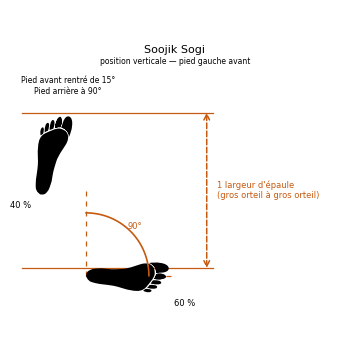
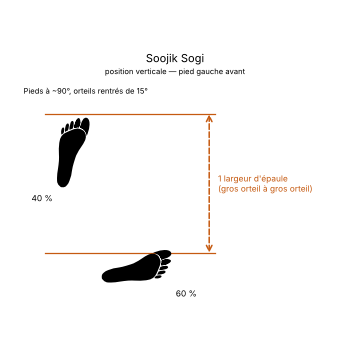
Soojik Sogi : orientation des pieds alignée sur l'Encyclopédie
Pieds presque à angle droit, orteils des deux pieds rentrés d'environ 15°
(comme la position en L), au lieu de « pied arrière ouvert à 90° » : manuel
16.18, fiche sogi/Soojik-Sogi.md et schéma images/sogi/soojik-sogi.png.

Claude-Session: https://claude.ai/code/session_01A1NHe34hiqjfap547sart3

diff --git a/scripts/generer-sogi.py b/scripts/generer-sogi.py
@@ -555,16 +555,17 @@ def _dwitbal(s):
 
 @position("soojik-sogi", "Soojik Sogi", "position verticale — pied gauche avant")
 def _soojik(s):
-    d = s.pied("D", at=(PIED_l / 2 + 1, 0), angle=-90, repere="talon")
+    # comme en position en L : pieds presque à angle droit, orteils des deux
+    # pieds rentrés d'environ 15° (Encyclopédie condensée, position verticale)
+    d = s.pied("D", at=(PIED_l / 2 + 1, 0), angle=-75, repere="talon")
     g = s.pied("G", at=(-PIED_l / 2 - 1, 0), angle=-15, repere="centre")
     _avancer(g, "gros-orteil", d.rp("gros-orteil")[1] + EPAULE)
     y0, y1 = d.rp("gros-orteil")[1], g.rp("gros-orteil")[1]
     s.cote_v(42, y0, y1, L_EPAULE + "\n(gros orteil à gros orteil)",
              ext=(-14, 44))
-    s.angle(d.rp("talon"), 0, 90, 19, "90°", rayons=27)
     s.poids(g, "40 %")
     s.poids(d, "60 %")
-    s.texte((0, y1 + 8), "Pied avant rentré de 15°\nPied arrière à 90°")
+    s.texte((0, y1 + 8), "Pieds à ~90°, orteils rentrés de 15°")
 
 
 @position("sasun-sogi", "Sasun Sogi", "position en diagonale — pied gauche avant")

diff --git a/sogi/Soojik-Sogi.md b/sogi/Soojik-Sogi.md
@@ -15,7 +15,7 @@ C'est une position courte, jambes tendues, le poids légèrement porté sur la j
 | Caractéristique | Norme technique ITF |
 | --- | --- |
 | **Longueur** | **Une largeur d'épaule**, mesurée entre les gros orteils, le pied déplacé vers l'avant ou sur le côté. |
-| **Orientation des pieds** | Orteils des **deux pieds** tournés d'environ **15° vers l'intérieur**. |
+| **Orientation des pieds** | Comme en position en L : les pieds forment **presque un angle droit**, les orteils des **deux pieds** tournés d'environ **15° vers l'intérieur**. |
 | **Répartition du poids** | **60 % sur la jambe arrière**, **40 % sur la jambe avant**. |
 | **Position des genoux** | Les deux jambes **tendues**. |
 | **Orientation du buste** | Toujours **de trois quarts** (*Hanmom*), en attaque comme en défense. |
@@ -25,7 +25,7 @@ C'est une position courte, jambes tendues, le poids légèrement porté sur la j
 ## 2. Décomposition de l'exécution
 
 1. **Le déplacement :** Déplacer un pied vers l'avant ou sur le côté, à une largeur d'épaule entre les gros orteils.
-2. **L'orientation :** Rentrer légèrement les orteils des deux pieds, d'environ 15°.
+2. **L'orientation :** Placer les pieds presque à angle droit, les orteils des deux pieds rentrés d'environ 15°.
 3. **La répartition :** Porter un peu plus de poids sur la jambe arrière (60 %) que sur la jambe avant (40 %).
 4. **Le verrouillage :** Tendre les deux jambes, buste de trois quarts.
 

diff --git a/Theorie/manuel/partie-4-positions-sogi/16-les-21-positions-en-detail.md b/Theorie/manuel/partie-4-positions-sogi/16-les-21-positions-en-detail.md
@@ -200,7 +200,7 @@ Chaque fiche donne les dimensions, l'orientation des pieds, la répartition du p
 
 * **Nomenclature coréenne :** *Soojik Sogi / [수직 서기](../../../audio/grammaire/Soojik-Sogi.m4a)*.
 * **Longueur :** Écartement d'**une largeur d'épaule** mesurée entre les deux gros orteils.
-* **Orientation :** Le pied avant pointe vers l'avant, orteils rentrés de **15 degrés**. Le pied arrière est ouvert à **90 degrés**, orteils vers le côté.
+* **Orientation :** Comme en position en L, les pieds forment presque un angle droit, et les orteils des **deux pieds** pointent à environ **15 degrés vers l'intérieur**.
 * **Jambes :** Les deux jambes sont maintenues **parfaitement droites et tendues** (sans aucune flexion des genoux).
 * **Poids :** Réparti à **60% sur la jambe arrière** et **40% sur la jambe avant**.
 * **Schéma d'alignement :**
